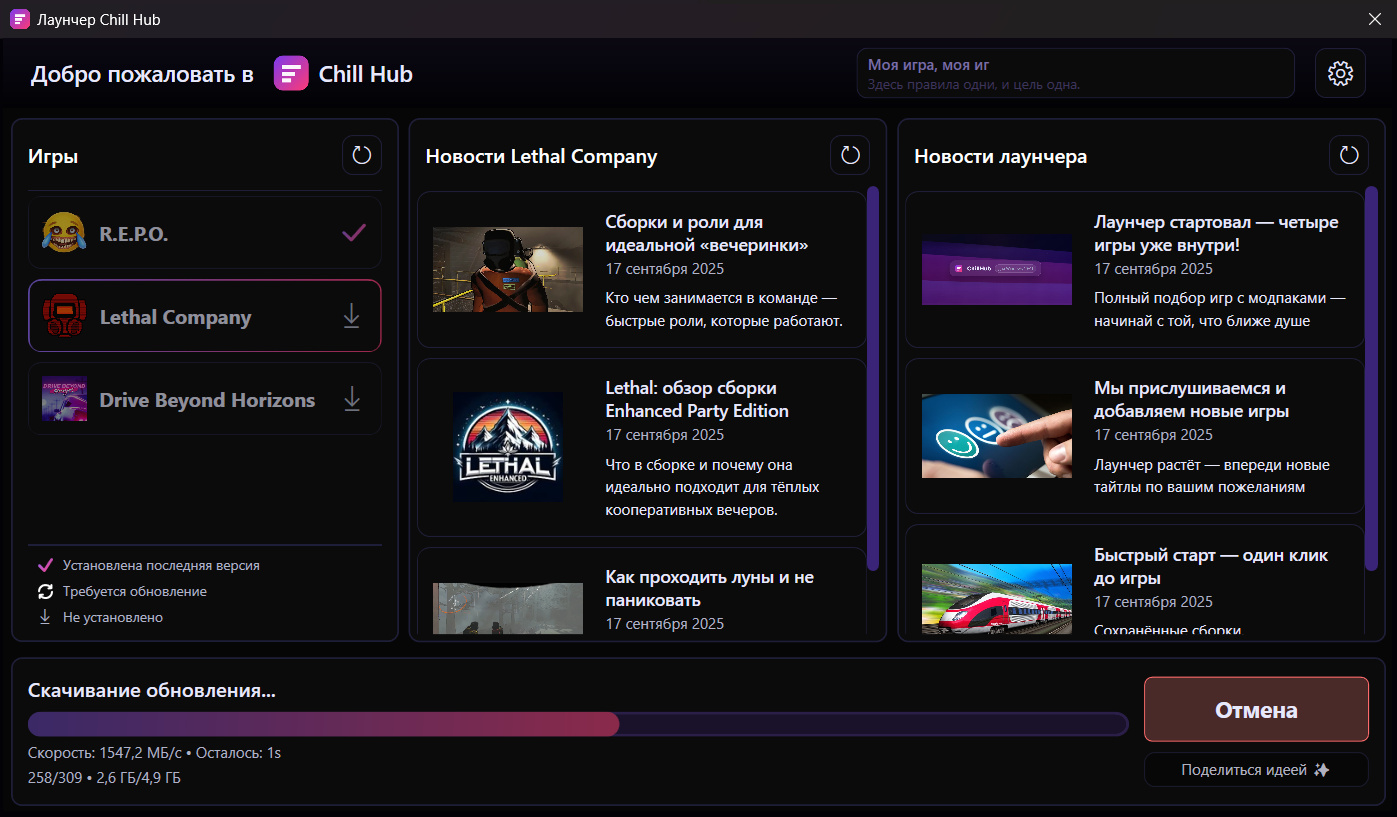
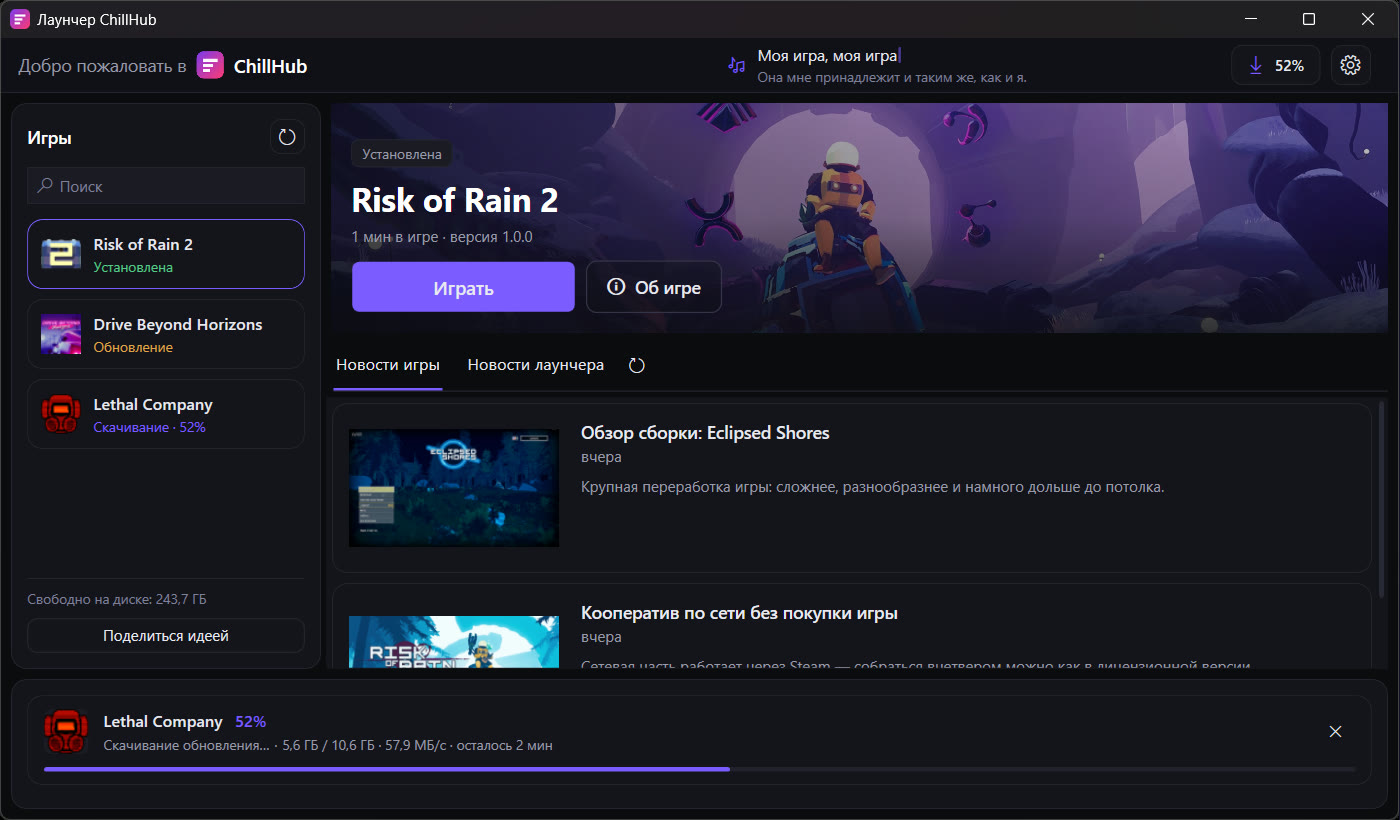
Показать на сайте лаунчер до и после обновления интерфейса
Скриншот на странице скачивания показывал прошлогодний интерфейс: за это
время лаунчер переехал на одну колонку игр с большим кадром игры, и
человек видел на сайте не то, что скачивал.

Один новый кадр заменой старого молча стёр бы разницу, поэтому оба
скриншота остаются рядом под бегунком: на старте открыт краешек старого,
остальное — нынешний вид. Кадры приведены к общему холсту 1400x820,
иначе шов между ними уезжал бы вслед за разными пропорциями.

diff --git a/landing/styles.css b/landing/styles.css
@@ -1170,6 +1170,174 @@ body.modal-open { overflow: hidden; }
   transition: none;
 }
 
+/* Before/after: старый лаунчер слева, нынешний справа */
+.screenshot-win.compare {
+  /* Рамка и тень переезжают на сцену: подпись должна остаться вне окна. */
+  background: none;
+  border: 0;
+  box-shadow: none;
+  border-radius: 0;
+  overflow: visible;
+}
+
+.compare__stage {
+  position: relative;
+  display: block;
+  width: max-content;               /* по картинке, иначе подпись растягивает окно */
+  max-width: 100%;
+  margin: 0 auto;
+  border-radius: clamp(6px, 1.2vh, 18px);
+  border: 1px solid rgb(255 255 255 / 10%);
+  background: linear-gradient(180deg, #17172e, #111126);
+  box-shadow: var(--shadow);
+  overflow: hidden;
+  touch-action: pan-y;              /* вертикальный скролл страницы не отбираем */
+}
+
+.compare__stage:has(.compare__range:focus-visible) {
+  outline: 2px solid rgb(124 58 237 / 65%);
+  outline-offset: 2px;
+}
+
+.compare__clip {
+  position: absolute;
+  inset: 0;
+  width: var(--compare-pos, 3%);
+  overflow: hidden;
+  z-index: 1;
+  border-radius: inherit;
+}
+
+/* Обе картинки одного размера, поэтому обрезанная копия просто тянется
+   по высоте сцены — шов совпадает пиксель в пиксель. */
+.compare__clip .compare__img {
+  position: absolute;
+  inset: 0 auto auto 0;
+  height: 100%;
+  width: auto;
+  max-width: none;
+  max-height: none;
+}
+
+.compare__handle {
+  position: absolute;
+  top: 0;
+  bottom: 0;
+  left: var(--compare-pos, 3%);
+  width: 2px;
+  margin-left: -1px;
+  z-index: 2;
+  background: rgb(255 255 255 / 85%);
+  box-shadow: 0 0 0 1px rgb(0 0 0 / 30%);
+  pointer-events: none;             /* тянет сам range, лежащий сверху */
+}
+
+.compare__grip {
+  position: absolute;
+  top: 50%;
+  left: 50%;
+  transform: translate(-50%, -50%);
+  width: 38px;
+  height: 38px;
+  border-radius: 50%;
+  background: rgb(17 17 38 / 92%);
+  border: 1px solid rgb(255 255 255 / 45%);
+  box-shadow: 0 6px 18px rgb(0 0 0 / 45%);
+}
+
+.compare__grip::before,
+.compare__grip::after {
+  content: "";
+  position: absolute;
+  top: 50%;
+  width: 0;
+  height: 0;
+  border-top: 5px solid transparent;
+  border-bottom: 5px solid transparent;
+  transform: translateY(-50%);
+}
+
+.compare__grip::before {
+  left: 8px;
+  border-right: 7px solid rgb(255 255 255 / 85%);
+}
+
+.compare__grip::after {
+  right: 8px;
+  border-left: 7px solid rgb(255 255 255 / 85%);
+}
+
+.compare__tag {
+  position: absolute;
+  top: 10px;
+  z-index: 2;
+  padding: 4px 10px;
+  border-radius: 999px;
+  font-size: 12px;
+  font-weight: 600;
+  color: var(--text);
+  background: rgb(10 10 24 / 78%);
+  border: 1px solid rgb(255 255 255 / 16%);
+  pointer-events: none;
+  transition: opacity .15s ease;
+}
+
+.compare__tag--before { left: 10px; }
+.compare__tag--after { right: 10px; }
+
+.compare--narrow .compare__tag--before { opacity: 0%; }
+
+.compare__range {
+  position: absolute;
+  inset: 0;
+  z-index: 3;
+  width: 100%;
+  height: 100%;
+  margin: 0;
+  padding: 0;
+  appearance: none;
+  background: transparent;
+  opacity: 0%;                      /* видимый бегунок нарисован в .compare__handle */
+  cursor: ew-resize;
+}
+
+.compare__range::-webkit-slider-thumb {
+  appearance: none;
+  width: 44px;
+  height: 100%;
+}
+
+.compare__range::-moz-range-thumb {
+  width: 44px;
+  height: 100%;
+  border: 0;
+  border-radius: 0;
+}
+
+.compare__caption {
+  margin: 12px auto 0;
+  max-width: 620px;
+  color: var(--muted);
+  font-size: 14px;
+  line-height: 1.5;
+  text-align: center;
+}
+
+.compare__zoom {
+  display: inline;
+  margin-left: 6px;
+  padding: 0;
+  border: 0;
+  background: none;
+  color: #b39cff;
+  font: inherit;
+  cursor: zoom-in;
+  text-decoration: underline;
+  text-underline-offset: 3px;
+}
+
+.compare__zoom:hover { color: #cdbcff; }
+
 /* (removed) Caption under screenshot */
 
 /* Ensure consistent centering without forcing full width */
@@ -1677,4 +1845,7 @@ img:not(.skeleton)::after { display: none; }
 @media (width <= 640px) {
   .screenshot-win { border-radius: 4px; }
   .screenshot-win img { border-radius: 4px; }
+  .compare__stage { border-radius: 4px; }
+  .compare__tag { font-size: 11px; padding: 3px 8px; }
+  .compare__grip { width: 32px; height: 32px; }
 }

diff --git a/landing/index.html b/landing/index.html
@@ -29,8 +29,8 @@
   <meta property="og:title" content="Chill Hub — лаунчер для игры с модами">
   <meta property="og:description" content="Lethal Company, R.E.P.O., Risk of Rain 2 и другие: моды ставятся и обновляются сами, друзьям остаётся только нажать «Играть».">
   <meta property="og:image" content="https://launcher.samoy.love/assets/images/launcher-main.jpg">
-  <meta property="og:image:width" content="1397">
-  <meta property="og:image:height" content="817">
+  <meta property="og:image:width" content="1400">
+  <meta property="og:image:height" content="820">
   <meta property="og:image:alt" content="Главный экран лаунчера Chill Hub со списком игр">
   <meta name="twitter:card" content="summary_large_image">
   <meta name="twitter:title" content="Chill Hub — лаунчер для игры с модами">
@@ -52,9 +52,9 @@
     .waves-bg.ready .waves-loader{display:none}
   </style>
   <!-- Use standard stylesheet to eliminate FOUC from preload+swap pattern -->
-  <link rel="stylesheet" href="./styles.css?v=20250923-8">
+  <link rel="stylesheet" href="./styles.css?v=20260816-1">
   <!-- Preload the download screenshot to ensure instant visibility when navigating to #download -->
-  <link rel="preload" as="image" href="./assets/images/launcher-main.jpg?v=20250923-1" imagesizes="(max-width: 980px) 92vw, 1120px">
+  <link rel="preload" as="image" href="./assets/images/launcher-main.jpg?v=20260816-1" imagesizes="(max-width: 980px) 92vw, 1120px">
   <link rel="icon" href="favicon.svg" type="image/svg+xml">
   <link rel="icon" href="favicon.ico" type="image/x-icon">
 </head>
@@ -299,10 +299,24 @@
     <!-- CTA DOWNLOAD -->
     <section class="section section--cta" id="download">
       <div class="container">
-        <figure class="screenshot-win">
-          <button class="win-body" type="button" aria-label="Открыть скриншот на весь экран">
-            <img src="./assets/images/launcher-main.jpg?v=20250923-1" alt="Скриншот лаунчера Chill Hub" decoding="async" loading="eager" fetchpriority="high" data-fallback="https://placehold.co/1280x720/0f0f1f/FFFFFF?text=Launcher" width="1280" height="720" />
-          </button>
+        <figure class="screenshot-win compare compare--narrow" style="--compare-pos: 3%">
+          <div class="compare__stage">
+            <img class="compare__img" src="./assets/images/launcher-main.jpg?v=20260816-1" alt="Лаунчер Chill Hub сейчас" decoding="async" loading="eager" fetchpriority="high" data-fallback="https://placehold.co/1400x820/0f0f1f/FFFFFF?text=Launcher" width="1400" height="820" />
+            <!-- Старый скриншот лежит поверх нового и обрезается по бегунку:
+                 слева видно «до», справа — «после». -->
+            <div class="compare__clip" aria-hidden="true">
+              <img class="compare__img" src="./assets/images/launcher-main-old.jpg?v=20260816-1" alt="" decoding="async" loading="eager" data-fallback="https://placehold.co/1400x820/0f0f1f/FFFFFF?text=Launcher" width="1400" height="820" />
+            </div>
+            <span class="compare__tag compare__tag--before" aria-hidden="true">Было</span>
+            <span class="compare__tag compare__tag--after" aria-hidden="true">Стало</span>
+            <div class="compare__handle" aria-hidden="true"><span class="compare__grip"></span></div>
+            <!-- range, а не свой drag: мышь, тач и стрелки клавиатуры бесплатно -->
+            <input class="compare__range" type="range" min="0" max="100" step="0.5" value="3" aria-label="Сравнить старый и новый вид лаунчера" />
+          </div>
+          <figcaption class="compare__caption">
+            Потяни бегунок: слева — старый лаунчер, справа — как он выглядит сейчас.
+            <button class="compare__zoom" type="button">Открыть скриншот</button>
+          </figcaption>
         </figure>
         <h2>Готов начать?</h2>
         <p>Скачай лаунчер и подключайся к друзьям за минуты.</p>
@@ -319,6 +333,6 @@
     </div>
   </footer>
 
-  <script src="./scripts/main.js?v=20250923-6" defer></script>
+  <script src="./scripts/main.js?v=20260816-1" defer></script>
 </body>
 </html>

diff --git a/landing/scripts/main.js b/landing/scripts/main.js
@@ -1043,6 +1043,13 @@
       }
     });
 
+    // Bind for the before/after screenshot
+    const zoomBtn = document.querySelector('.compare__zoom');
+    const currentShot = document.querySelector('.compare__stage > .compare__img');
+    if(zoomBtn && currentShot){
+      zoomBtn.addEventListener('click', ()=> open(currentShot.currentSrc || currentShot.src));
+    }
+
     // Bind for the single screenshot window
     const single = document.querySelector('.screenshot-win .win-body img');
     const triggerBtn = document.querySelector('.screenshot-win .win-body');
@@ -1061,6 +1068,21 @@
         }
       });
     }
+  })();
+
+  // Before/after: бегунок двигает шов между старым и нынешним скриншотом
+  (function setupCompare(){
+    const fig = document.querySelector('.screenshot-win.compare');
+    const range = fig && fig.querySelector('.compare__range');
+    if(!fig || !range) return;
+    const apply = ()=>{
+      fig.style.setProperty('--compare-pos', range.value + '%');
+      // В узкой полосе метка «Было» не помещается и наезжает на новый кадр.
+      fig.classList.toggle('compare--narrow', Number(range.value) < 12);
+    };
+    range.addEventListener('input', apply);
+    // На старте показываем «до» узкой полосой: сравнение важнее ностальгии.
+    apply();
   })();
 
   // (removed) Gallery-specific behaviors
